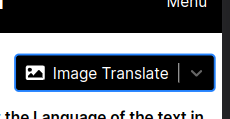
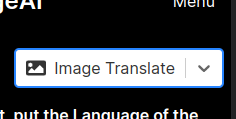
Nws modal popup

diff --git a/src/pages/translate.tsx b/src/pages/translate.tsx
@@ -1,4 +1,4 @@
-import React, { useState } from "react";
+import React, { useState, useEffect } from "react";
 import dynamic from "next/dynamic";
 import { FaLanguage } from "react-icons/fa";
 import MetaSEO from "@/common/components/MetaSEO";
@@ -11,8 +11,11 @@ import { TRANSLATE_SEO } from "@/modules/translate/constant";
 import MediaSelect from "@/common/components/MediaSelect";
 import ImageToTextUploader from "@/common/components/ImageToTextUploader";
 import { sendFirebaseEvent } from "@/common/lib/firebase/sendFirebaseEvent";
+import NewsModal from "@/common/components/NewsModal";
+import Cookies from "js-cookie";
 
 const LangTranslate = () => {
+  const [showNews, setShowNews] = useState(false);
   const [isImageTranslate, setIsImageTranslate] = useState(false);
   const [imageText, setImageText] = useState("");
   const [translateVal, setTranslateVal] = useState("");
@@ -29,9 +32,20 @@ const LangTranslate = () => {
     return;
   };
 
+  useEffect(() => {
+    const showCookie = Cookies.get("showNews");
+
+    if (!showCookie) {
+      setShowNews(true);
+      Cookies.set("showNews", "false", { expires: 1 });
+      return;
+    }
+  }, [showNews]);
+
   return (
     <Layout>
       <MetaSEO seo={TRANSLATE_SEO} />
+      {showNews && <NewsModal onCloseClick={() => setShowNews(false)} />}
       <div className="lg:container mx-auto px-2 lg:px-0">
         <div className="flex items-center justify-between my-4">
           <h1

diff --git a/src/common/components/NewsModal.tsx b/src/common/components/NewsModal.tsx
@@ -12,7 +12,7 @@ const NewsModal = (props: INewsModal) => {
 
   return (
     <div className="fixed top-0 left-0 w-full h-full z-10 bg-black bg-opacity-50">
-      <div className="mt-[40%] lg:mt-[20%] w-fit bg-white mx-auto p-2 rounded">
+      <div className="mt-[40%] lg:mt-[15%] w-fit bg-white mx-auto p-2 rounded">
         <div className="text-black text-center text-2xl mb-2 font-semibold"> NEW FEATURE! </div>
         <div className="flex items-center justify-between gap-2">
           <Image src="/images/news/text_toggle.png" alt="text translate" width={150} height={150} className="rounded" />
